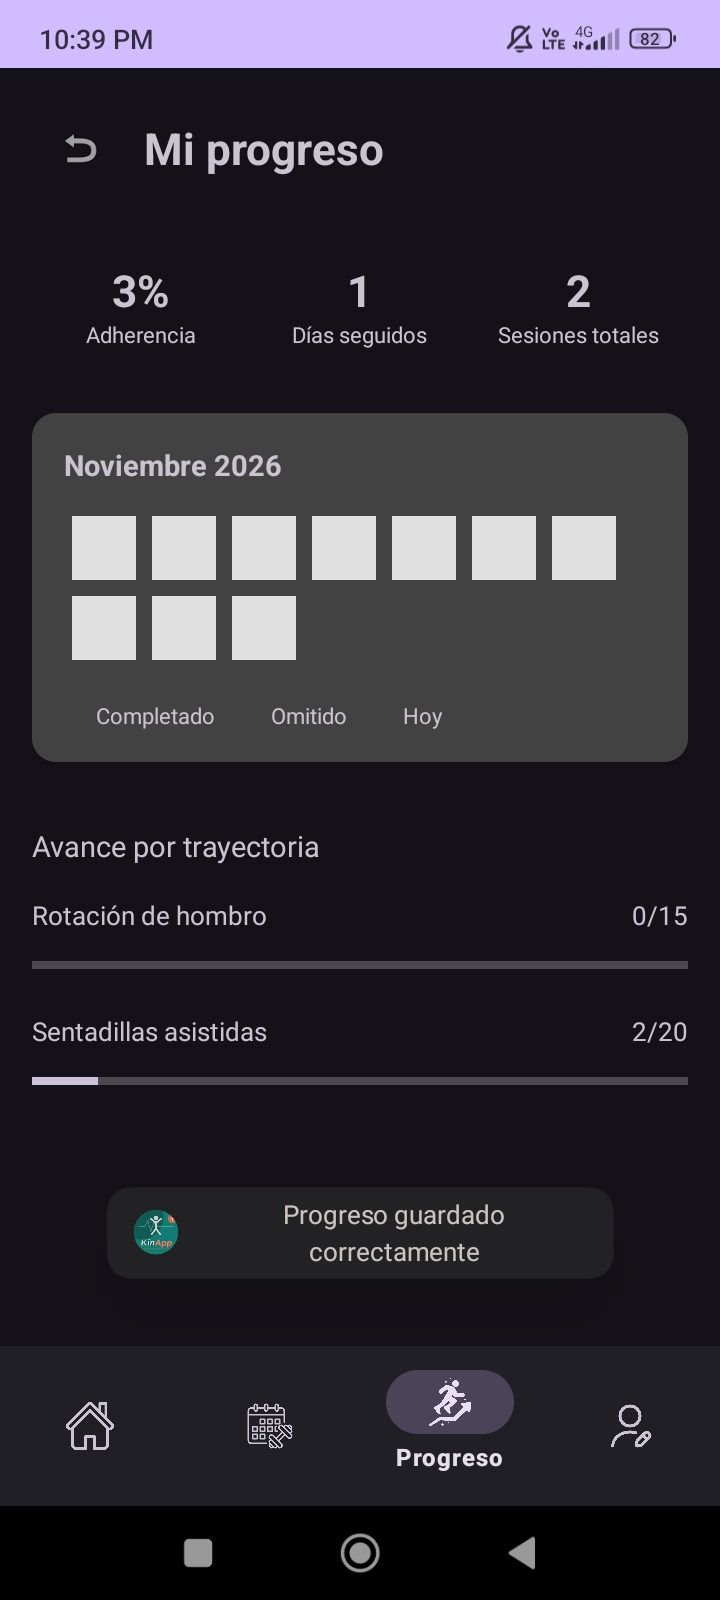
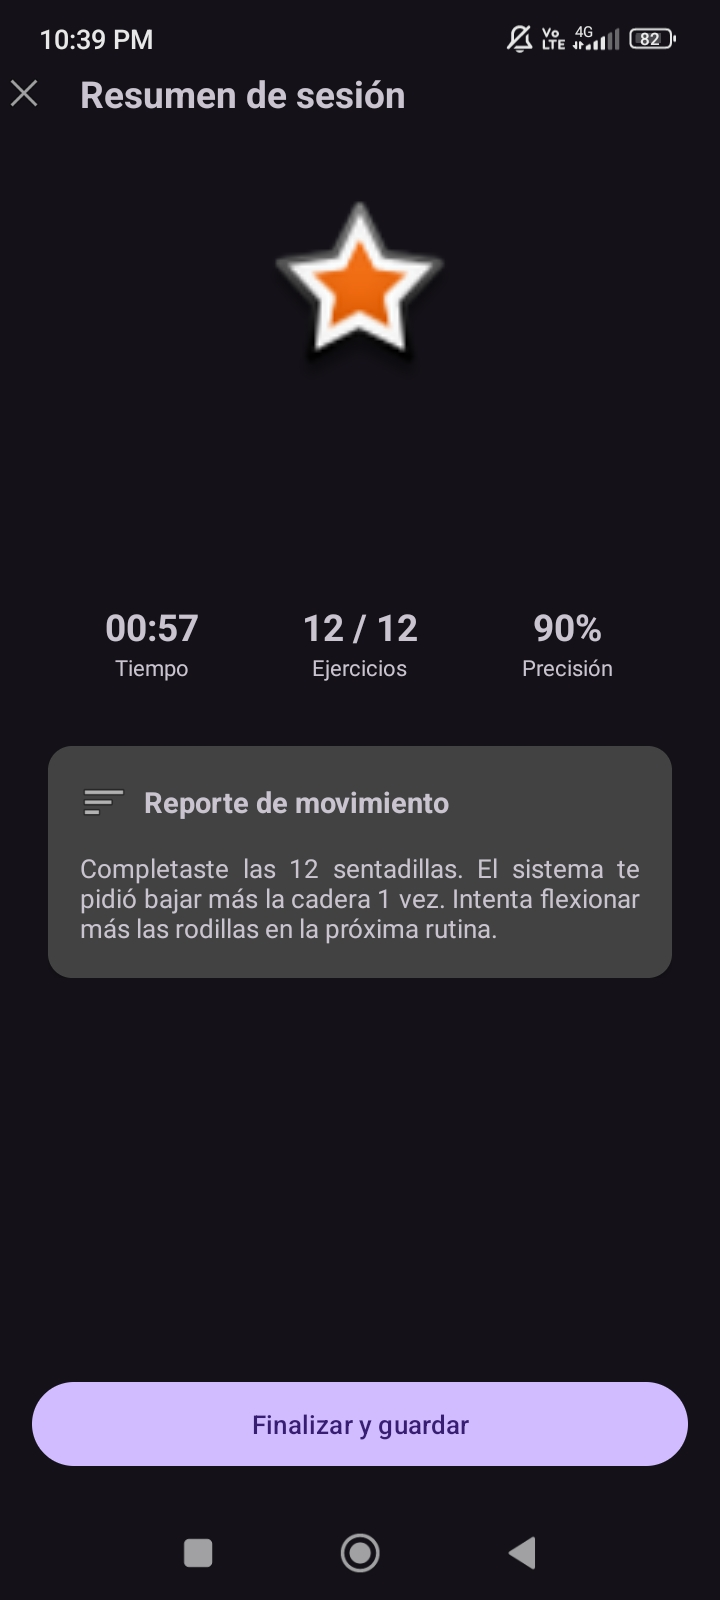
Commit 83 update and fixed: Se implemento el bloqueo de capturas de pantalla para el PerfilActivity, ResumenRutinaActivity y CamaraGuiadaActivity, debido a que contienen información sensible del usuario, ademas se arreglo la captura de una imagen que estaba repetida mostrando duplicidad.

diff --git a/app/src/main/java/com/example/kinapp/vista/PerfilActivity.java b/app/src/main/java/com/example/kinapp/vista/PerfilActivity.java
@@ -18,6 +18,7 @@ import com.google.android.material.bottomnavigation.BottomNavigationView;
 import com.example.kinapp.R;
 import com.example.kinapp.controlador.UsuarioController;
 import com.example.kinapp.modelo.Usuario;
+import android.view.WindowManager;
 
 /**
  * Actividad encargada de gestionar la información de perfil del usuario,
@@ -48,6 +49,7 @@ public class PerfilActivity extends AppCompatActivity {
     @Override
     protected void onCreate(Bundle savedInstanceState) {
         super.onCreate(savedInstanceState);
+        getWindow().setFlags(WindowManager.LayoutParams.FLAG_SECURE, WindowManager.LayoutParams.FLAG_SECURE);
         setContentView(R.layout.activity_perfil);
 
         txtNombre = findViewById(R.id.txt_nombre_perfil);

diff --git a/app/src/main/java/com/example/kinapp/vista/CamaraGuiadaActivity.java b/app/src/main/java/com/example/kinapp/vista/CamaraGuiadaActivity.java
@@ -36,6 +36,7 @@ import java.util.Locale;
 import java.util.concurrent.ExecutionException;
 import java.util.concurrent.ExecutorService;
 import java.util.concurrent.Executors;
+import android.view.WindowManager;
 
 /**
  * Pantalla de la rutina guiada de sentadillas. Abre la cámara frontal con CameraX, envía los
@@ -72,6 +73,7 @@ public class CamaraGuiadaActivity extends AppCompatActivity implements Sentadill
     @Override
     protected void onCreate(Bundle savedInstanceState) {
         super.onCreate(savedInstanceState);
+        getWindow().setFlags(WindowManager.LayoutParams.FLAG_SECURE, WindowManager.LayoutParams.FLAG_SECURE);
         EdgeToEdge.enable(this);
         setContentView(R.layout.activity_camara_guiada);
 

diff --git a/app/src/main/java/com/example/kinapp/vista/ResumenRutinaActivity.java b/app/src/main/java/com/example/kinapp/vista/ResumenRutinaActivity.java
@@ -16,6 +16,7 @@ import androidx.core.view.WindowInsetsCompat;
 import com.example.kinapp.R;
 import com.example.kinapp.controlador.ProgresoController;
 import java.util.Locale;
+import android.view.WindowManager;
 
 /**
  * Actividad encargada de mostrar el resumen analítico y métricas de la rutina finalizada.
@@ -40,6 +41,7 @@ public class ResumenRutinaActivity extends AppCompatActivity {
     @Override
     protected void onCreate(Bundle savedInstanceState) {
         super.onCreate(savedInstanceState);
+        getWindow().setFlags(WindowManager.LayoutParams.FLAG_SECURE, WindowManager.LayoutParams.FLAG_SECURE);
         EdgeToEdge.enable(this);
         setContentView(R.layout.activity_resumen_rutina);
 
